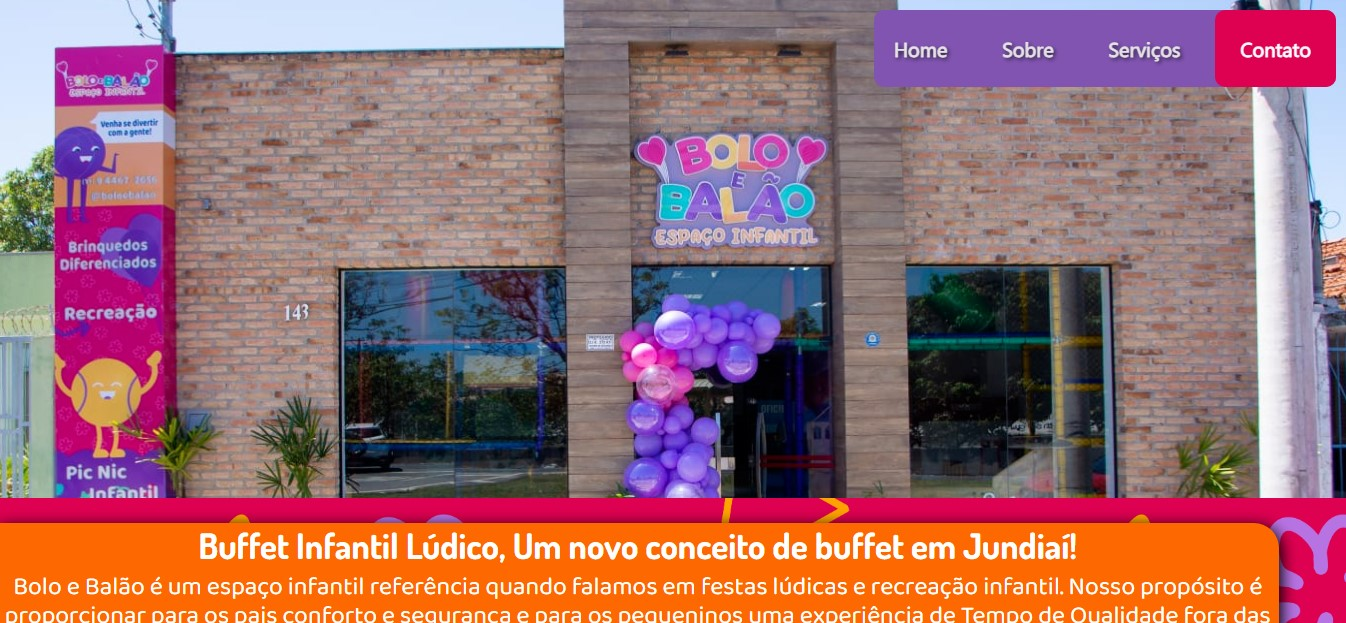
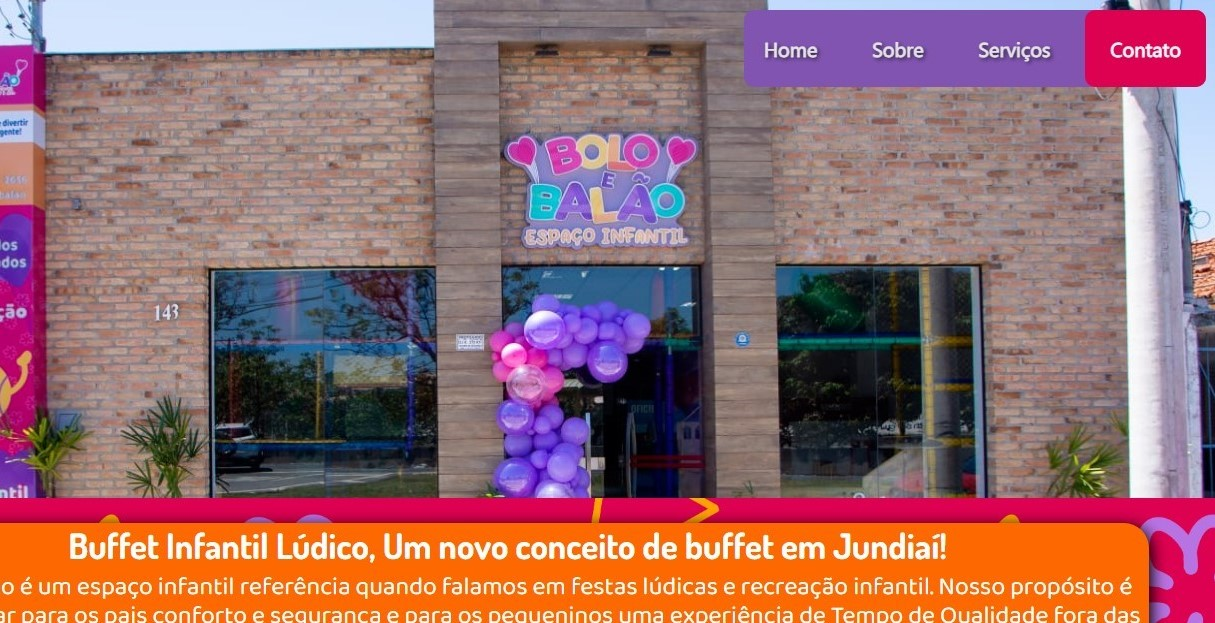
alteraçao desing caixa2

diff --git a/index.html b/index.html
@@ -73,28 +73,32 @@
         <h3>Com um site profissional e moderno, Atraia novos clientes, aumente sua visibilidade e impulsione seus negócios</h3>
     </div>
     <div class="container-box">
-        <div class="content-box"><img src="/imgs/imgSiteDemonstracao/siteDemo.jpg" alt=""><div class="texto-box"><h1>titulo</h1><h3>texto</h3></div></div>
-        <div class="content-box"><img src="/imgs/imgSiteDemonstracao/siteDemo1.jpg" alt=""><div class="texto-box"><h1>titulo</h1><h3>texto</h3></div> </div>
-        <div class="content-box"><img src="/imgs/imgSiteDemonstracao/bolobalao4.jpg" alt="">
-            <div class="texto-box"><h1>titulo</h1><h3>texto</h3>
-           
-        </div>
+        <div class="content-box"><img src="/imgs/imgSiteDemonstracao/siteDemo.jpg" alt=""></div><!--<div class="texto-box"><h1>titulo</h1><h3>texto</h3></div>-->
+        <div class="content-box"><img src="/imgs/imgSiteDemonstracao/siteDemo1.jpg" alt=""></div>
+        <div class="content-box"><img src="/imgs/imgSiteDemonstracao/bolobalao.jpg" alt=""></div>
     </div>
-    </div>
+    
     <div class="container-boxText">
         
             <div class="boxText text"><h1>Impulsione sua Presença Online e Atraia Mais Clientes!</h1>
             <h3>Você deseja fortalecer sua presença online e atrair um público qualificado para o 
                 seu negócio? Está em busca de estratégias eficazes para criar blocos e landing 
                 pages impactantes? Então você está no lugar certo!</h3></div>
-            <div class="boxText box-grid">
+            <div class="container-grafico">
+                <img src="/imgs/icones/grafico_icon.png" alt="grafico_icon">
+<div class="element-grid">
+    <h3>Com um site, você pode alcançar um público muito maior e <span style="color: rgb(14, 229, 254);">aumentar</span>
+        suas chances de atrair novos clientes.</h3>
+</div>
+            </div>
+           <!-- <div class="boxText box-grid">
                <div class="element-grid"><h3>96% das pessoas <span style="color: rgb(14, 229, 254);">procuram</span> empresas no Google</h3></div>
                <div class="element-grid"><h3>Sites são uma ferramenta para transmitir <span style="color: rgb(14, 229, 254);">confiança</span><h3> aos clientes</h3></div>
                <div class="element-grid"><h3>Com um site, você pode alcançar um público muito maior e <span style="color: rgb(14, 229, 254);">aumentar</span> suas chances de atrair novos clientes.</h3></div>
                <div class="element-grid"><h3>Você pode estabelecer sua marca online e <span style="color: rgb(14, 229, 254);">diferenciar-se</span> da concorrência</h3></div>
 
             
-        </div>
+        </div>-->
     </div>
     <script src="/index.js"></script>
 </body>

diff --git a/index.css b/index.css
@@ -78,17 +78,20 @@ header {
 .container-box {
     display: flex;
     width: 90%;
+    min-height: 300px;
     margin: auto;
     padding: 5px;
 }
 
 .content-box {
     width: calc(100% / 3);
+    height: 230px;
     margin: 10px;
-    background-color: rgb(235, 233, 233);
+    overflow: hidden;   
 }
 .content-box img {
-    width: 100%;
+    height: 100%;
+    object-fit: cover;
 }
 .texto-box {
     text-align: center;
@@ -129,10 +132,13 @@ header {
     .content-box {
         margin: 10px;
         width: 90%;
+        height: auto;
     }
 
     .content-box img {
         width: 100%;
+        object-fit: fill;
+        height: auto;
     }
 }
 @media only screen and (max-width: 640px) {
@@ -153,7 +159,6 @@ header {
         width: 100%;
     }
 }
-
 .sideBar{
     height: 100vh;
     width: 00vw;
@@ -265,6 +270,17 @@ display: block;
     font-size: 1.15em
     
 }
+.container-grafico{
+display: flex;
+justify-content: center;
+flex-direction: column;
+align-items: center;
+width: calc(100%/2);
+
+}
+.container-grafico img{
+    width: 20vw;
+}
 @media only screen and (max-width: 900px){
 .text{
     font-size: 1.7vw;
@@ -287,11 +303,19 @@ display: block;
     text-align: center;
 }
 .element-grid {
-    width: calc(120%/2);
+    width: calc(150%/2);
     height: calc(120%/2);
     margin: 10px;
     font-size: 3vw;
    
+}
+.container-grafico {
+    width: 100%;
+
+}
+
+.container-grafico img {
+    width: 30vw;
 }
     
 }
